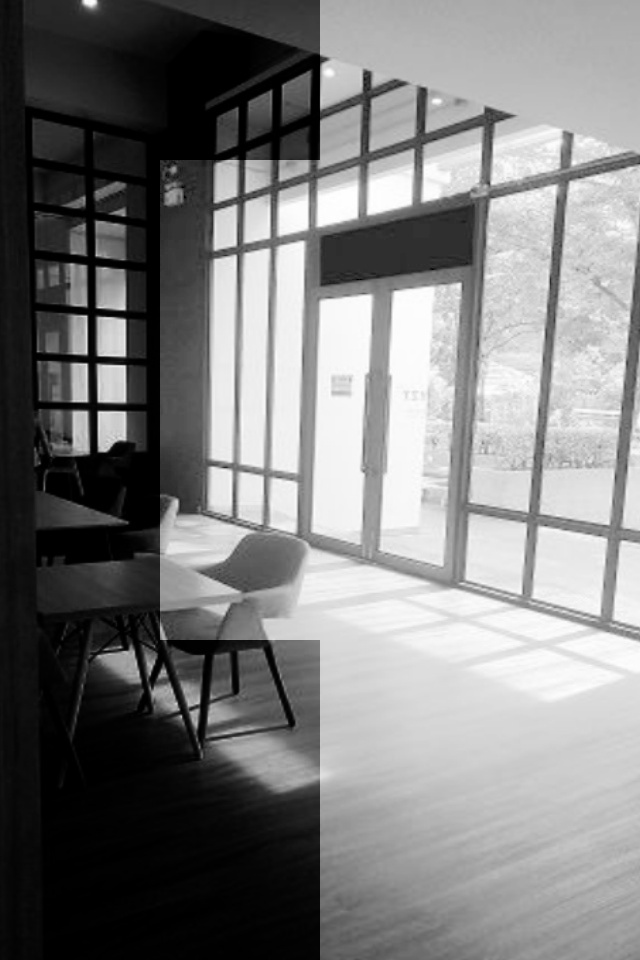
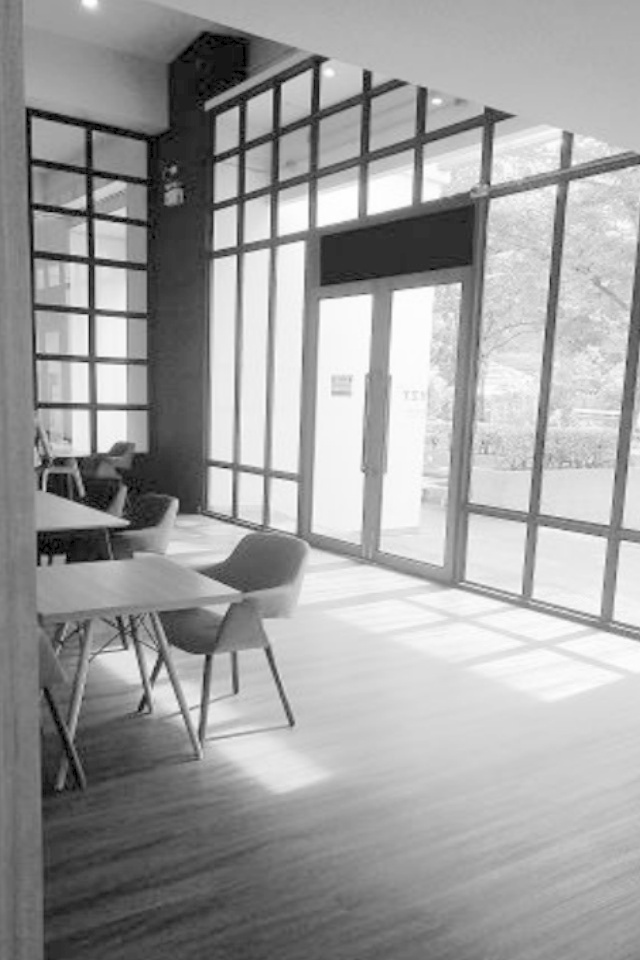
local-hist ver.2

diff --git a/Intensity features/local-hist-equalization.py b/Intensity features/local-hist-equalization.py
@@ -1,76 +1,88 @@
 import cv2 as cv
 import numpy as np
+import os
 
-# Load the image
-og_image = cv.imread('pics/demo.png', cv.IMREAD_COLOR)
+def LocalHistEqualization(user_gamma):
 
-# Define the block size and stride length
-block_size = (320, 320)  # Size of each block
-stride = (160, 160)  # Stride length for overlapping blocks
+    #clear all old pics first
+    dir = 'dividepics/input'
+    for file in os.scandir(dir):
+        os.remove(file.path)
+    dir = 'dividepics/output'
+    for file in os.scandir(dir):
+        os.remove(file.path)
 
-# Convert the image to a NumPy array
-image_array = np.array(og_image)
+    # Load the image
+    og_image = cv.imread('pics/demo.png', cv.IMREAD_COLOR)
 
-# Calculate the number of blocks in each dimension
-blocks_per_row = (image_array.shape[1] - block_size[1]) // stride[1] + 1
-blocks_per_col = (image_array.shape[0] - block_size[0]) // stride[0] + 1
+    # Define the block size and stride length
+    block_size = (320, 320)  # Size of each block
+    stride = (160, 160)  # Stride length for overlapping blocks
 
-# Create an empty list to store the blocks
-blocks = []
-count = 0
-# Iterate over the image and extract blocks
-for row in range(blocks_per_col):
-    for col in range(blocks_per_row):
-        block = image_array[row * stride[0]:row * stride[0] + block_size[0],
-                           col * stride[1]:col * stride[1] + block_size[1]]
-        blocks.append(block)
-        # Save the block as a separate image
-        cv.imwrite(f'dividepics/input/Inblock{count}.jpg', block)
-        count += 1
+    # Convert the image to a NumPy array
+    image_array = np.array(og_image)
 
+    # Calculate the number of blocks in each dimension
+    blocks_per_row = (image_array.shape[1] - block_size[1]) // stride[1] + 1
+    blocks_per_col = (image_array.shape[0] - block_size[0]) // stride[0] + 1
 
-
-for img in range(len(blocks)):
-    imgblock_in = cv.imread('dividepics/input/Inblock{}.jpg'.format(img), 0)
-    mean = np.mean(imgblock_in) / 125
-    print(mean)
-    gamma = 1
-
-    if (mean < gamma):
-        gamma = 2
-    else:
-        gamma = 0.5
-
-    print(gamma)
-
-    gamma_corrected = (imgblock_in / 255)**gamma
-
-    gamma_corrected = gamma_corrected * 255
-
-    imgblock_out = np.array(gamma_corrected, dtype = 'uint8')
-
-    # cv.imshow('Power-law', imgblock_out)
-    # cv.imwrite('dividepics/input/Inblock{}.jpg'.format(img), imgblock_in)
-    cv.imwrite('dividepics/output/Outblock{}.jpg'.format(img), imgblock_out)
-
-# Create an empty canvas to assemble the output image
-canvas_height = (blocks_per_col - 1) * stride[0] + block_size[0]
-canvas_width = (blocks_per_row - 1) * stride[1] + block_size[1]
-assembled_image = np.zeros((canvas_height, canvas_width), dtype=np.uint8)
-
-# Assemble the output image from the overlapping blocks
-for idx, block in enumerate(blocks):
-    imgblock_out = cv.imread('dividepics/output/Outblock{}.jpg'.format(idx), cv.IMREAD_GRAYSCALE)
-    row = idx // blocks_per_row
-    col = idx % blocks_per_row
-    start_row = row * stride[0]
-    end_row = start_row + block_size[0]
-    start_col = col * stride[1]
-    end_col = start_col + block_size[1]
-    assembled_image[start_row:end_row, start_col:end_col] = imgblock_out
-
-# Save the assembled image
-cv.imwrite('dividepics/output/assembled_image.jpg', assembled_image)
+    # Create an empty list to store the blocks
+    blocks = []
+    count = 0
+    # Iterate over the image and extract blocks
+    for row in range(blocks_per_col):
+        for col in range(blocks_per_row):
+            block = image_array[row * stride[0]:row * stride[0] + block_size[0],
+                            col * stride[1]:col * stride[1] + block_size[1]]
+            blocks.append(block)
+            # Save the block as a separate image
+            cv.imwrite(f'dividepics/input/Inblock{count}.jpg', block)
+            count += 1
 
 
 
+    for img in range(len(blocks)):
+        imgblock_in = cv.imread('dividepics/input/Inblock{}.jpg'.format(img), 0)
+        mean = float(np.mean(imgblock_in))
+        print(mean)
+        gamma = user_gamma
+
+        if (mean < gamma):
+            gamma = 2
+        else:
+            gamma = 0.5
+
+        print(gamma)
+
+        gamma_corrected = ((imgblock_in / 255)**gamma) * 255
+        imgblock_out = np.array(gamma_corrected, dtype = 'uint8')
+
+        # cv.imshow('Power-law', imgblock_out)
+        # cv.imwrite('dividepics/input/Inblock{}.jpg'.format(img), imgblock_in)
+        cv.imwrite('dividepics/output/Outblock{}.jpg'.format(img), imgblock_out)
+
+
+
+    # Create an empty canvas to assemble the output image
+    canvas_height = (blocks_per_col - 1) * stride[0] + block_size[0]
+    canvas_width = (blocks_per_row - 1) * stride[1] + block_size[1]
+    assembled_image = np.zeros((canvas_height, canvas_width), dtype=np.uint8)
+
+    # Assemble the output image from the overlapping blocks
+    for idx, block in enumerate(blocks):
+        imgblock_out = cv.imread('dividepics/output/Outblock{}.jpg'.format(idx), cv.IMREAD_GRAYSCALE)
+        row = idx // blocks_per_row
+        col = idx % blocks_per_row
+        start_row = row * stride[0]
+        end_row = start_row + block_size[0]
+        start_col = col * stride[1]
+        end_col = start_col + block_size[1]
+        assembled_image[start_row:end_row, start_col:end_col] = imgblock_out
+
+    # Save the assembled image
+    cv.imwrite('dividepics/output/assembled_image.jpg', assembled_image)
+
+    return 0
+
+user_gamma = float(input('Please enter your gamma: '))
+LocalHistEqualization(user_gamma)
